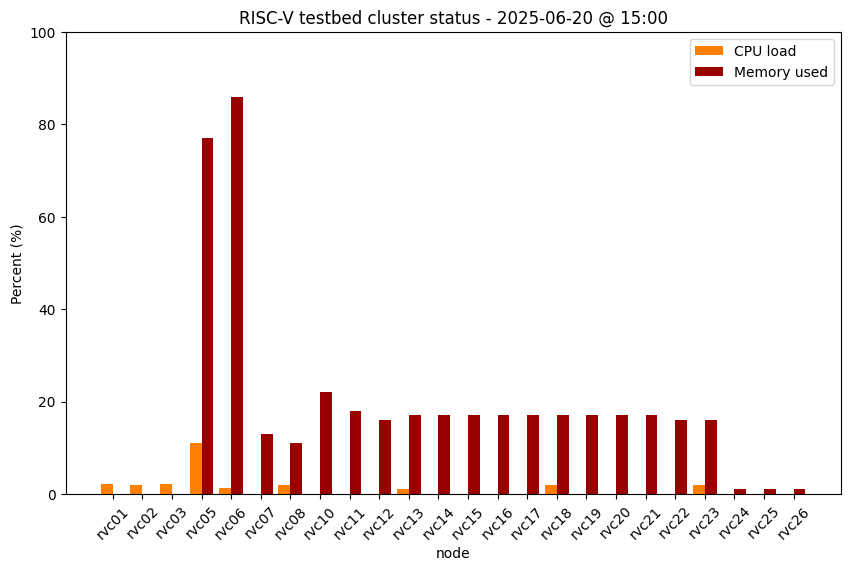
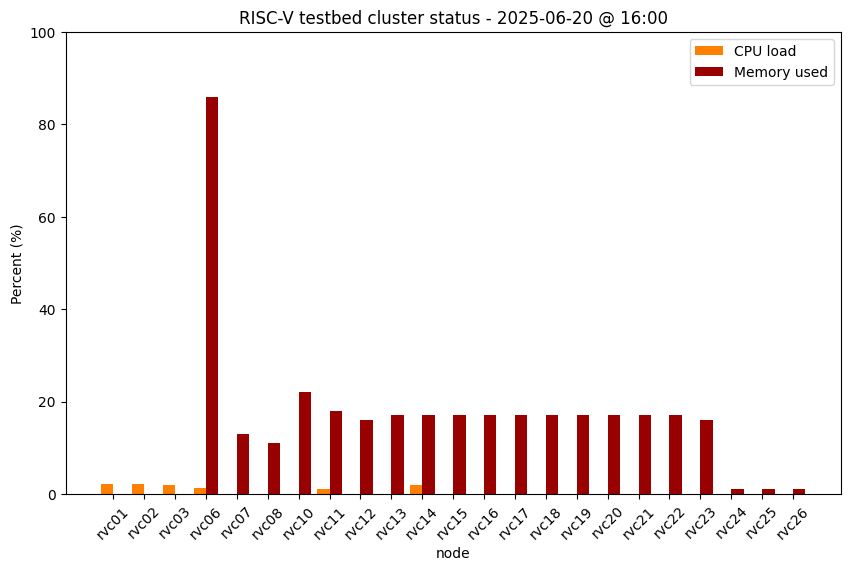
Update cluster status

Changed region(s): [[0.1529, 0.1489, 0.9482, 0.9527]]

diff --git a/status.md b/status.md
@@ -17,7 +17,7 @@ permalink: /status/
 | Milk-V Jupiter #1 | rvc02 | 8 | 16GB | <img src="/images/on.png" alt="green light" width="10"/> up |
 | Milk-V Jupiter #2 | rvc03 | 8 | 16GB | <img src="/images/on.png" alt="green light" width="10"/> up |
 | DongshanNezhaSTU #4 | rvc04 | 1 | 512MB | <img src="/images/amber.png" alt="amber light" width="10"/> offline |
-| MangoPi MQ-Pro #1 | rvc05 | 1 | 1GB | <img src="/images/on.png" alt="green light" width="10"/> up |
+| MangoPi MQ-Pro #1 | rvc05 | 1 | 1GB | <img src="/images/off.png" alt="red light" width="10"/> down |
 | MangoPi MQ-Pro #2 | rvc06 | 1 | 1GB | <img src="/images/on.png" alt="green light" width="10"/> up |
 | StarFive VisionFive V1 #1 | rvc07 | 2 | 8GB | <img src="/images/on.png" alt="green light" width="10"/> up |
 | StarFive VisionFive V1 #2 | rvc08 | 2 | 8GB | <img src="/images/on.png" alt="green light" width="10"/> up |
